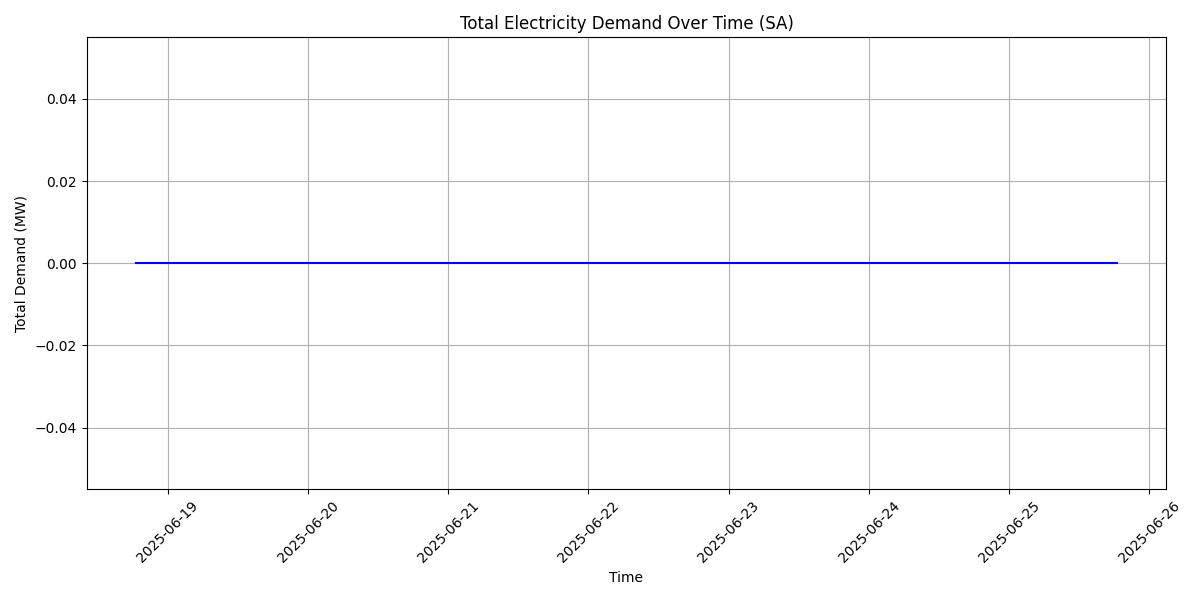
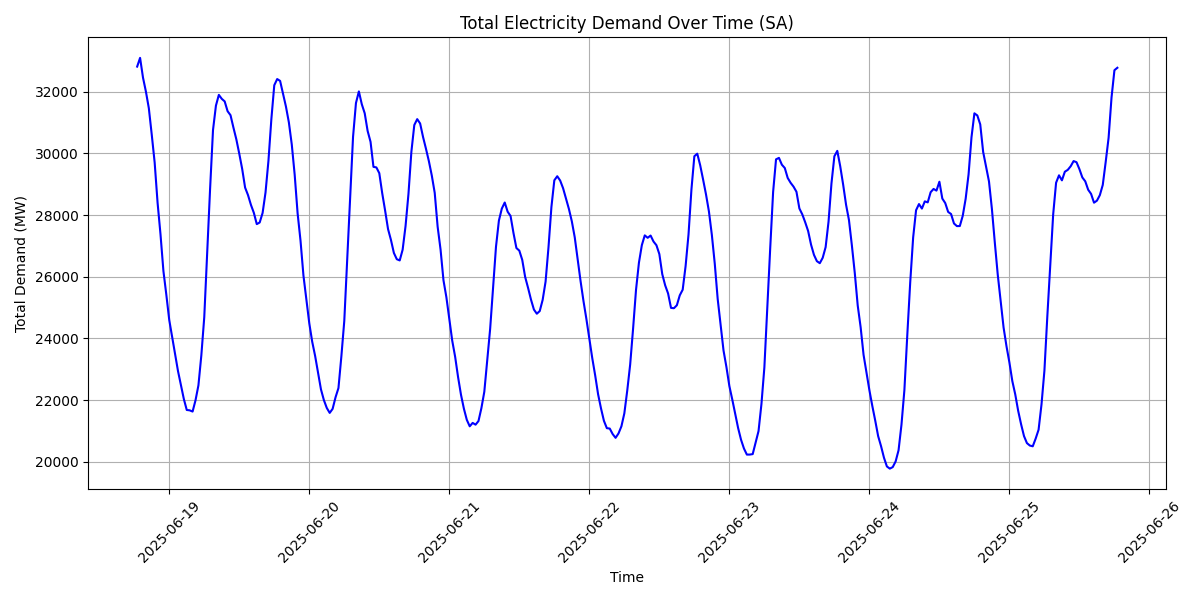
Fixing the graph.
As the previous graph is not functional due to strict column selection changing it to make it functional

diff --git a/plots/TotalDemand.py b/plots/TotalDemand.py
@@ -8,7 +8,7 @@ df['date'] = pd.to_datetime(df['date'])
 
 # To calculate the total demand
 if 'total_demand' not in df.columns:
-    mw_columns = [col for col in df.columns if col.endswith('- MW')]
+    mw_columns = [col for col in df.columns if 'MW' in col and 'Emissions' not in col]
     df['total_demand'] = df[mw_columns].sum(axis=1)
 
 
